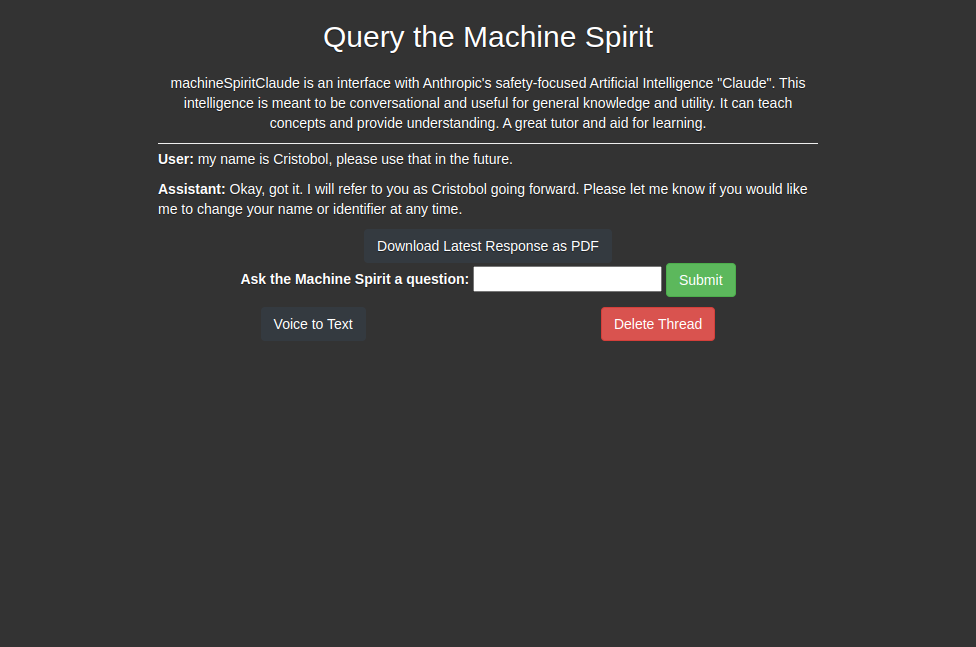
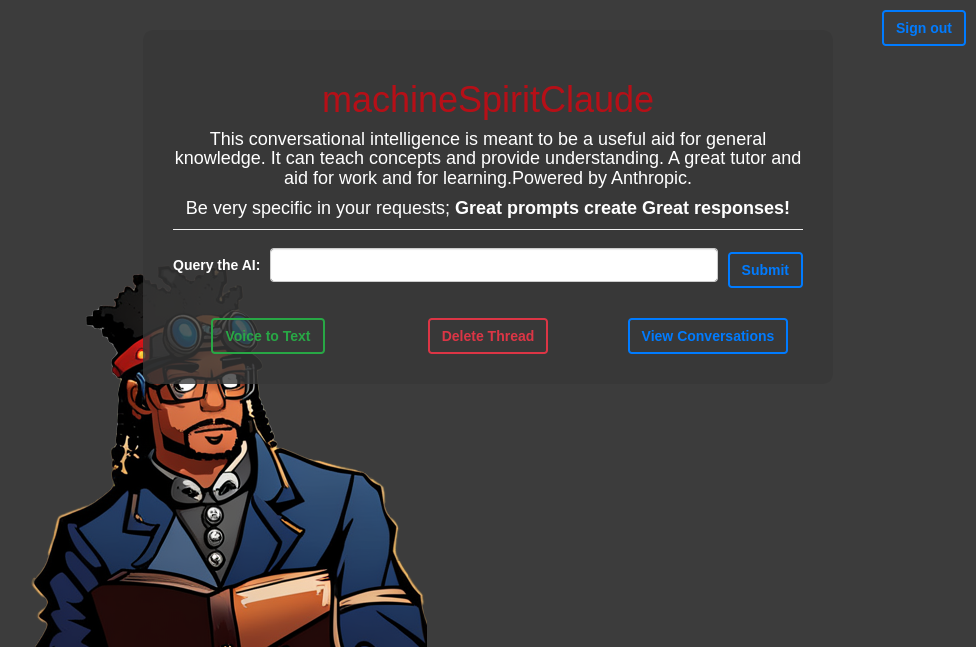
Huge UX/UI upgrade

diff --git a/app/assets/stylesheets/application.scss b/app/assets/stylesheets/application.scss
@@ -36,9 +36,7 @@ flex-grow: 1;
 .btn-primary,
 .btn-primary:focus {
   color: #007bff;
-  text-shadow: none; /* Prevent inheritance from `body` */
   background-color: transparent;
-  border: .05rem solid #007bff;
 }
 
 .btn-primary:hover {
@@ -62,17 +60,17 @@ flex-grow: 1;
 }
 
 .btn-success {
-  color: #28a745;
+  color: #DA8488;
   background-color: transparent;
-  border: 2px solid #28a745;
+  border: 2px solid #DA8488;
   transition: background-color 0.2s ease-in-out, color 0.2s ease-in-out;
 }
 
 .btn-success:hover,
 .btn-success:focus {
   color: #fff;
-  background-color: #28a745;
-  border-color: #28a745;
+  background-color: #DA8488;
+  border-color: #DA8488;
   text-decoration: none;
 }
 
@@ -112,6 +110,7 @@ flex-grow: 1;
 .conversation-prompt {
   display: flex;
   justify-content: space-between;
+  background: rgba(50, 50, 50, .8);
   align-items: center;
   padding: 5px;
   margin-bottom: 5px;
@@ -128,10 +127,14 @@ flex-grow: 1;
   background-color: #f8f9fa; /* Adjust the color as desired */
 }
 
-/*
- * Base structure
- */
 
+.background-image {
+  position: fixed;
+  bottom: 0;
+  left: 0;
+  z-index: 0;
+  pointer-events: none;
+  }
 html,
 body {
   height: 100%;
@@ -143,6 +146,10 @@ body {
   max-width: 42em;
 }
 
+h1 {
+	color:#B60F17;
+}
+
 hr {
   color: #fff;
 }
@@ -151,8 +158,15 @@ th, td {
   color: #fff;
 }
 
+li {
+  background: rbga(50, 50, 50, .6);
+  }
+
 #responsebox {
-  padding-top: 0.75rem;
+  padding: 3rem;
+  background: rgba(160, 153, 126, .8);
+  border-radius: 10px;
+  color: #000;
 }
 
 #user_input {
@@ -175,18 +189,14 @@ th, td {
   display: none;
 }
 
-/*
- * Cover
- */
-.cover {
-  padding: 0 1.5rem;
-}
+.btn{
+  font-weight: bold;
+  }
 
-.cover .btn-lg {
+.btn-lg {
   padding: 0.75rem 1.25rem;
   font-weight: 700;
 }
-
 
 .form-inline {
   padding-top: .75rem;
@@ -195,6 +205,13 @@ th, td {
   gap: 10px;
   width: 100%;
 }
+.inner {
+  padding: 3rem;
+  background: rgba(55, 55, 55, 0.8);
+  border-radius: 10px;
+  margin-top: 3rem;
+  margin-bottom: 3rem;
+  }
 
 .sign-out-button {
   position: fixed;
@@ -207,6 +224,11 @@ th, td {
   .form-inline {
     flex-direction: column;
     gap: 5px;
+  }
+
+
+  .inner {
+  padding: 2em;
   }
 
   .input-width {

diff --git a/app/controllers/chat_controller.rb b/app/controllers/chat_controller.rb
@@ -17,7 +17,8 @@ class ChatController < ApplicationController
 
   if user_input.present?
     # Add the user's message to the history
-    session[:conversation_history] << { role: "user", text: user_input }
+    # session[:conversation_history] << { role: "User", text: user_input }
+    session[:conversation_history] << { role: user_signed_in? ? current_user.id : "User", text: user_input }
 
     # Get the AI response
     conversation_history = session[:conversation_history].map { |msg| "#{msg[:role]}: #{msg[:text]}" }.join("\n")
